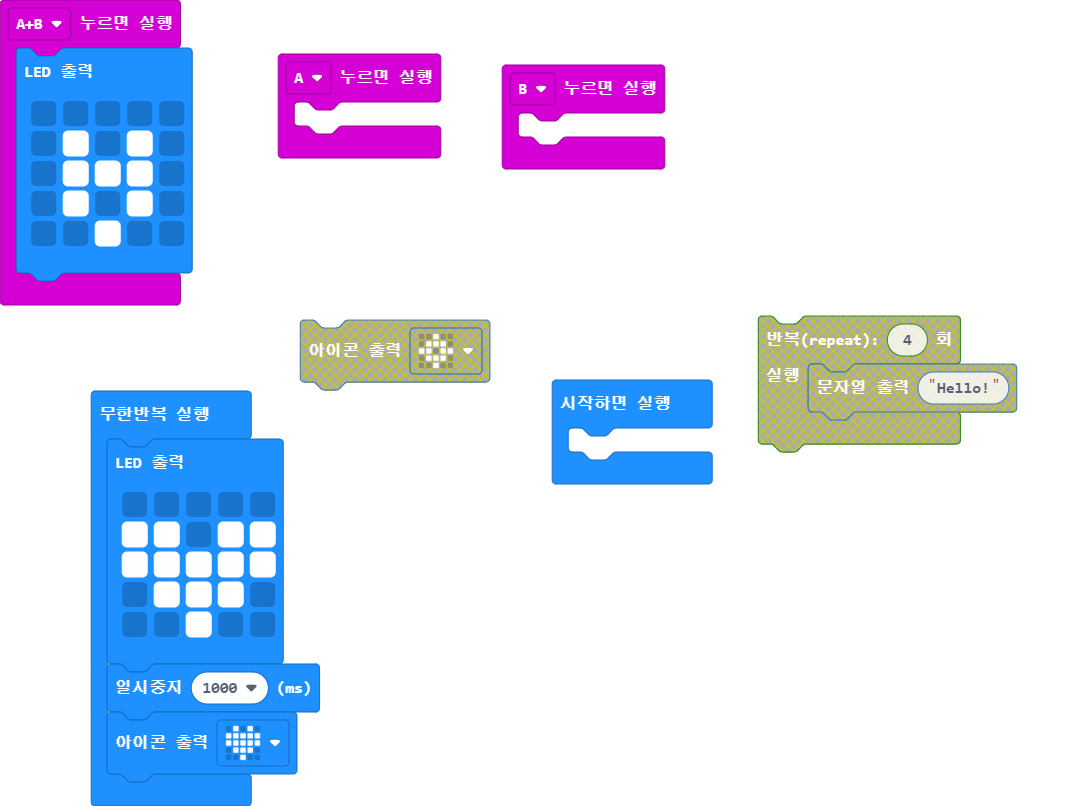
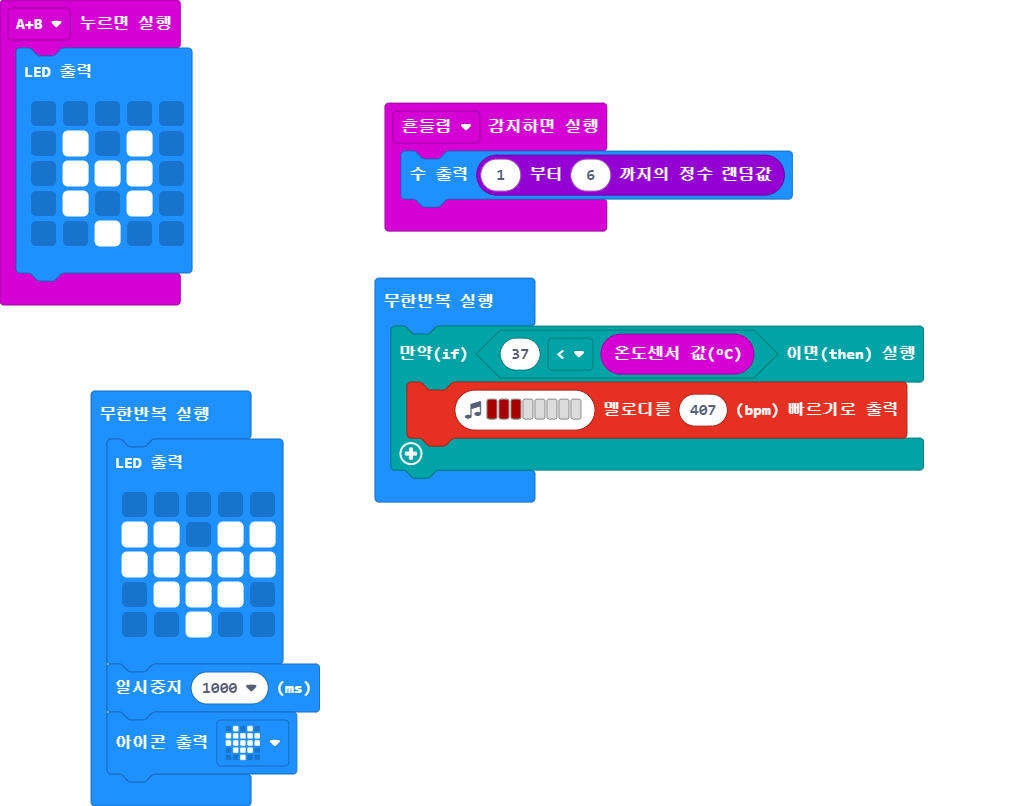
온도센서 추가

diff --git a/main.ts b/main.ts
@@ -1,5 +1,5 @@
-input.onButtonPressed(Button.A, function () {
-	
+input.onGesture(Gesture.Shake, function () {
+    basic.showNumber(randint(1, 6))
 })
 input.onButtonPressed(Button.AB, function () {
     basic.showLeds(`
@@ -10,8 +10,10 @@ input.onButtonPressed(Button.AB, function () {
         . . # . .
         `)
 })
-input.onButtonPressed(Button.B, function () {
-	
+basic.forever(function () {
+    if (37 < input.temperature()) {
+        music.playMelody("C5 C5 C5 - - - - - ", 407)
+    }
 })
 basic.forever(function () {
     basic.showLeds(`
